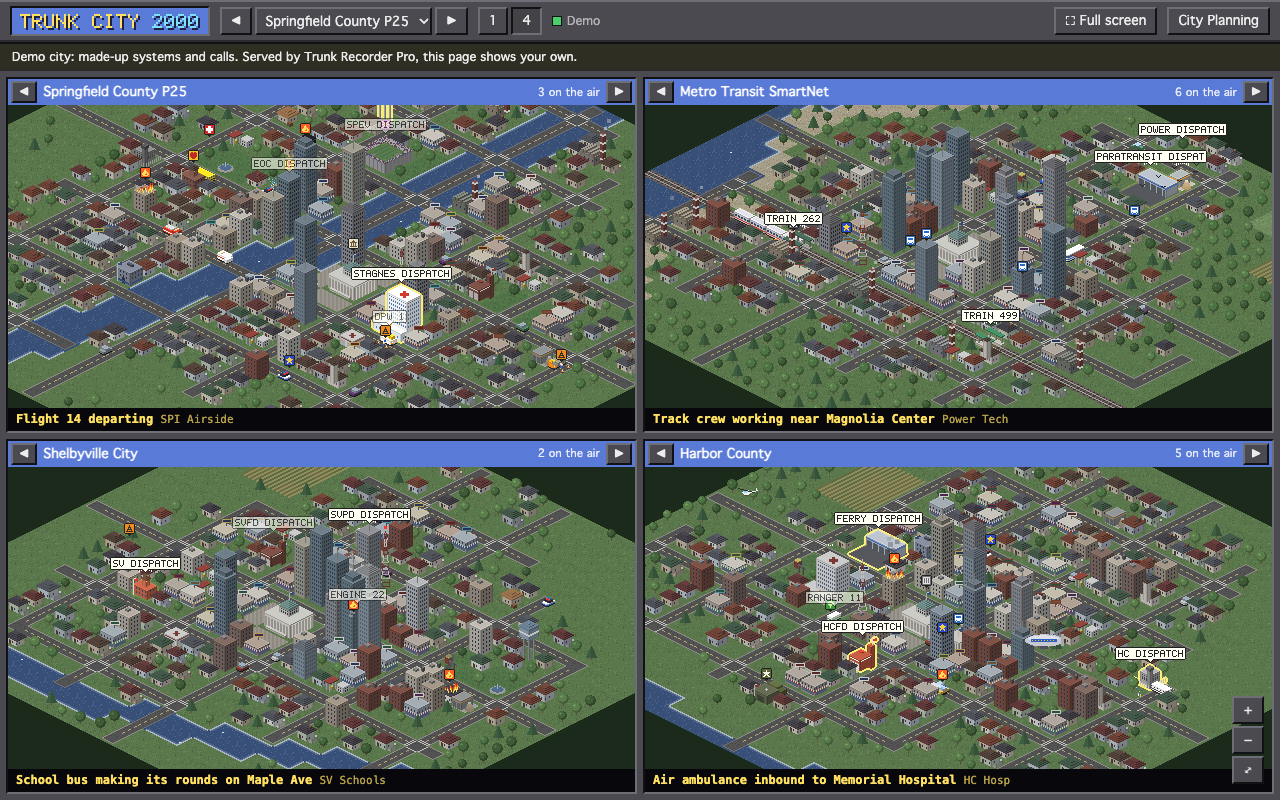
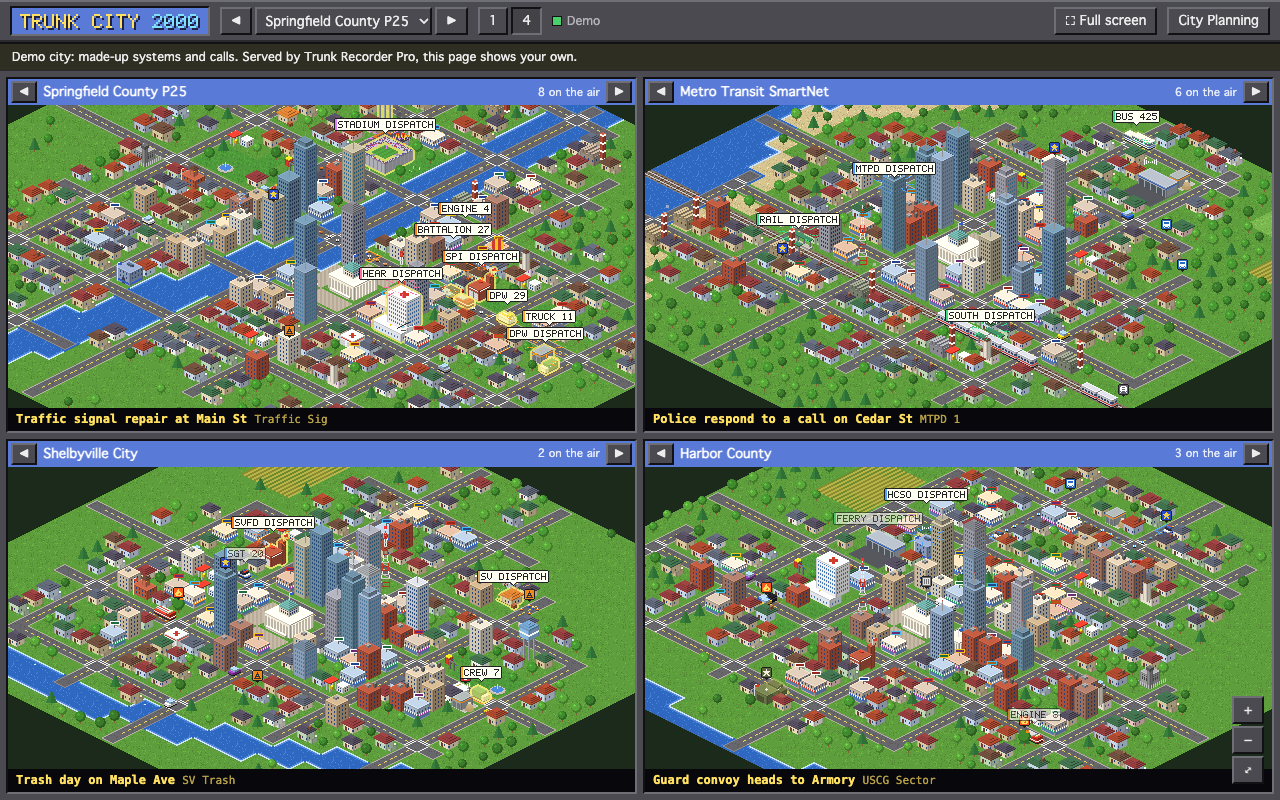
Full color, with the radio's activity standing out by its own light
The faded city is off by default (and turned off once for 0.2 users).
Instead each service has a color, and its radios wear it: a ring on the
ground under each radio's vehicle (faint when heard lately, pulsing
while it talks), a sparkle trail while talking, marching dots along its
route to an incident, a stripe on its bubble. Talking dispatch buildings
get turning rays and rising rings; a talking radio behind a building
shows through. Light traffic is at most four cars, no buses. 0.3.0.

diff --git a/interface/js/city.js b/interface/js/city.js
@@ -10,7 +10,7 @@
 // a tower rather than over it.
 
 import * as S from "./sprites.js";
-import { css, Pix, bitmapText, textWidth, sprite } from "./pixel.js";
+import { css, mix, Pix, bitmapText, textWidth, sprite } from "./pixel.js";
 import { G, roadPath, nearestRoad } from "./citygen.js";
 import { DIRS, NW, NE, SE, SW, toTile } from "./iso.js";
 import { chaos } from "./rng.js";
@@ -34,6 +34,29 @@ const UNIT_ACTS = new Set(["respond", "ambulance", "chase", "bus", "route", "con
 // often in 10, is a dispatcher, whatever it's called: its building speaks for it.
 const DISPATCH_TGS = 3;
 const DISPATCH_KEYS = 12;
+// Each service's color: its radios' ground rings, trails, routes and rays.
+export const TYPE_COLOR = {
+  fire: 0xff7a1a,
+  ems: 0xff4d6d,
+  police: 0x4da3ff,
+  hospital: 0xff6b9a,
+  emergency: 0xffd23f,
+  transit: 0x3ddc84,
+  schools: 0xffd400,
+  airport: 0x7fd4ff,
+  utilities: 0x34d0ff,
+  publicworks: 0xffa62b,
+  animal: 0xd8a868,
+  parks: 0x7ee05a,
+  corrections: 0xc0c0c8,
+  security: 0x9fa8ff,
+  military: 0xa8c860,
+  federal: 0x7f98ff,
+  government: 0xf6e7a8,
+  events: 0xe07cff,
+  other: 0xc58cff,
+};
+const colorOf = (tk) => TYPE_COLOR[tk?.ev?.type] ?? 0xffffff;
 const MAX_PARTICLES = 700;
 
 /** World pixel of a point on the map (fi, fj in tiles). */
@@ -154,6 +177,12 @@ class Mover {
     const [x, y] = P(this.fi, this.fj);
     const X = Math.round(x - s.ax),
       Y = Math.round(y - s.ay);
+    if (this.talker) {
+      // A ring on the ground in its service's color: faint while it's been
+      // heard lately, bright and pulsing while it talks.
+      const r = ring(colorOf(this.talker), this.talker.talking && Math.floor(time * 4) % 2 === 0);
+      ctx.drawImage(r.img, Math.round(x) - r.ax, Math.round(y) - r.ay);
+    }
     if (this.talker?.talking) glow(ctx, s, X, Y, time);
     ctx.drawImage(this.ambient && this.view.dim ? dimmed(s) : s.img, X, Y);
   }
@@ -161,7 +190,10 @@ class Mover {
   box(time) {
     const s = this.sprite(time);
     const [x, y] = P(this.fi, this.fj);
-    return [x - s.ax - 2, y - s.ay - 2, s.w + 4, s.h + 4];
+    // The sprite and its glow, and the ring under it.
+    const x0 = Math.min(x - s.ax - 2, x - 12),
+      y0 = y - s.ay - 2;
+    return [x0, y0, Math.max(x - s.ax + s.w + 2, x + 12) - x0, Math.max(y - s.ay + s.h + 2, y + 7) - y0];
   }
 }
 
@@ -505,7 +537,7 @@ export class CityView {
     const { city } = this;
     const roads = city.roadTiles.filter((k) => !city.bridge[k]);
     if (!roads.length) return;
-    const want = { none: 0, light: Math.max(2, Math.min(8, Math.round(roads.length / 45))), normal: Math.max(4, Math.min(36, Math.round(roads.length / 11))) }[this.traffic] ?? 0;
+    const want = { none: 0, light: Math.max(1, Math.min(4, Math.round(roads.length / 70))), normal: Math.max(4, Math.min(36, Math.round(roads.length / 11))) }[this.traffic] ?? 0;
     const cars = this.ents.filter((e) => e.ambient && e instanceof Mover && e.kind !== "bus");
     for (const m of cars.slice(want)) m.alive = false;
     for (let n = cars.length; n < want; n++) {
@@ -1056,7 +1088,9 @@ export class CityView {
     }
     const act = inc?.scen.act;
     if (inc && inc.target?.road >= 0 && !["bus", "route", "patrol", "train", "plane", "tower"].includes(act)) {
+      m.enRoute = true;
       m.go(inc.target.road, () => {
+        m.enRoute = false;
         m.onScene = true;
         if (act === "ambulance") {
           // To the nearest hospital, and wait there.
@@ -1067,8 +1101,11 @@ export class CityView {
           if (h) m.go(this.door(h));
         }
       });
-    } else if (["bus", "route", "patrol"].includes(act)) this.route(m, 3, () => this.park(m, home));
-    else this.park(m, home);
+    } else {
+      m.enRoute = false;
+      if (["bus", "route", "patrol"].includes(act)) this.route(m, 3, () => this.park(m, home));
+      else this.park(m, home);
+    }
   }
 
   /** `m` waits on a street near `home`. */
@@ -1082,6 +1119,7 @@ export class CityView {
   retire(t) {
     t.leaving = true;
     const m = t.mover;
+    if (m) m.enRoute = false;
     if (m?.alive)
       m.go(m.home, () => {
         m.alive = false;
@@ -1420,6 +1458,20 @@ export class CityView {
       if (m?.alive) m.lights = S.FLASHING.has(m.kind) && (tk.talking || !!(tk.inc && !tk.inc.over && tk.inc.live));
       if (!tk.talking && !tk.leaving && t - tk.heard > RECENT_S) this.retire(tk);
       if (tk.train && !tk.train.alive) tk.train = null;
+      if (!tk.talking) continue;
+      const c = colorOf(tk);
+      // A trail of sparkles behind a radio that's talking (fewer while it waits).
+      const N = this.city.N;
+      if (m?.alive && m.fi > 0.15 && m.fj > 0.15 && m.fi < N - 0.15 && m.fj < N - 0.15 && chaos() < dt * (m.arrived ? 6 : 22)) {
+        const [x, y] = P(m.fi, m.fj);
+        this.puff(x + chaos.range(-3, 3), y - chaos.range(1, 5), { color: chaos.chance(0.6) ? c : 0xffffff, size: 1, vx: chaos.range(-3, 3), vy: chaos.range(-8, -3), life: chaos.range(0.6, 1.1), grow: 0 });
+      }
+      // Rings from a building whose radio is talking.
+      const o = tk.building;
+      if (o?.spr && (tk._ring ?? 0) < t) {
+        tk._ring = t + 0.8;
+        this.rings.push({ x: o.wx + o.spr.ax, y: o.wy + o.spr.top, r: 2, max: 24, speed: 16, color: css(c) });
+      }
     }
 
     // Chimneys (fewer puffs when the city's quiet).
@@ -1625,6 +1677,50 @@ export class CityView {
           },
         });
       }
+    // The way radios are going to an incident: dots along the road, marching.
+    for (const tk of this.talkers.values()) {
+      const m = tk.mover;
+      if (!m?.alive || !m.enRoute || m.arrived) continue;
+      const c = css(colorOf(tk));
+      const ahead = m.path.slice(m.seg + 1);
+      const march = Math.floor(t * 6);
+      ahead.forEach((k, n) => {
+        const i = Math.floor(k / N) + 0.5,
+          j = (k % N) + 0.5;
+        const next = ahead[n + 1];
+        // Two dots a tile, toward the next one; a dark edge under each, to stand out on any ground.
+        const dots = [W(i, j)];
+        if (next != null) dots.push(W((i + Math.floor(next / N) + 0.5) / 2, (j + (next % N) + 0.5) / 2));
+        const [x, y] = dots[0];
+        ground.push({
+          depth: i + j - 0.4,
+          fi: i,
+          fj: j,
+          draw: (g) => {
+            dots.forEach(([dx, dy], d) => {
+              const on = (march - (n * 2 + d)) % 4 === 0 || (march - (n * 2 + d)) % 4 === 1;
+              g.globalAlpha = on ? 1 : 0.55;
+              g.fillStyle = "#202020";
+              g.fillRect(Math.round(dx) - 1, Math.round(dy), 3, 2);
+              g.fillStyle = on ? "#ffffff" : c;
+              g.fillRect(Math.round(dx) - 1, Math.round(dy) - 1, 3, 2);
+              if (on) {
+                g.fillStyle = c;
+                g.fillRect(Math.round(dx), Math.round(dy) - 1, 1, 2);
+              }
+            });
+            if (n === ahead.length - 1) {
+              // Where it's going: a ring.
+              g.globalAlpha = 1;
+              const r = ring(colorOf(tk), true);
+              g.drawImage(r.img, Math.round(x) - r.ax, Math.round(y) - r.ay);
+            }
+            g.globalAlpha = 1;
+          },
+          box: () => [x - 16, y - 8, 32, 16],
+        });
+      });
+    }
     // Buildings whose radios are talking: lit up, at full strength.
     for (const tk of this.talkers.values()) {
       const o = tk.building;
@@ -1658,6 +1754,30 @@ export class CityView {
     }
     list.sort((a, b) => a.depth - b.depth || (a.order ?? -1) - (b.order ?? -1));
     for (const e of list) e.draw(ctx, t);
+    // A radio talking behind a building shows through it, as its glow.
+    for (const tk of this.talkers.values()) {
+      const m = tk.mover;
+      if (!m?.alive || !tk.talking || !list.includes(m)) continue;
+      const [bx, by, bw, bh] = m.box(t);
+      const i0 = Math.floor(m.fi),
+        j0 = Math.floor(m.fj);
+      let hidden = false;
+      for (let a = 0; a <= 6 && !hidden; a++)
+        for (let b = 0; b <= 6 && !hidden; b++) {
+          const i = i0 + a,
+            j = j0 + b;
+          if (i >= N || j >= N) continue;
+          const id = city.obj[i * N + j];
+          const o = id >= 0 && city.objects[id];
+          if (o && o.depth > m.depth && o.art[0] !== "tree" && !(o.wx > bx + bw || o.wx + o.spr.w < bx || o.wy > by + bh || o.wy + o.spr.h < by)) hidden = true;
+        }
+      if (!hidden) continue;
+      const sp = m.sprite(t);
+      const [x, y] = P(m.fi, m.fj);
+      ctx.globalAlpha = 0.7;
+      glow(ctx, sp, Math.round(x - sp.ax), Math.round(y - sp.ay), t, true);
+      ctx.globalAlpha = 1;
+    }
 
     // Smoke, water, sparks.
     for (const p of this.particles) {
@@ -1711,6 +1831,18 @@ export class CityView {
         ctx.fillRect(x + 2 * r, y - r, 1, 2 * r);
       }
     }
+    // Rays turning over a building whose radio is talking.
+    for (const tk of this.talkers.values()) {
+      const o = tk.building;
+      if (!o?.spr || !tk.talking) continue;
+      const cx = o.wx + o.spr.ax,
+        cy = o.wy + o.spr.top + 2;
+      ctx.fillStyle = css(colorOf(tk));
+      for (let k = 0; k < 8; k++) {
+        const a = (k * Math.PI) / 4 + t * 1.2;
+        for (let r = 9; r <= 14; r++) ctx.fillRect(Math.round(cx + Math.cos(a) * r * 1.4), Math.round(cy + Math.sin(a) * r * 0.75), 1, 1);
+      }
+    }
     // Incident signs.
     this.icons = [];
     for (const inc of this.incidents) {
@@ -1737,7 +1869,7 @@ export class CityView {
       if (!text) continue;
       const at = this.talkerAt(tk);
       if (!at || !inView(at.x, at.y, 40)) continue;
-      const b = bubble(text);
+      const b = bubble(text, colorOf(tk));
       let x = Math.round(at.x - b.ax),
         y = Math.round(at.y - 3 - b.ay);
       // Out of each other's way: step up.
@@ -1930,7 +2062,7 @@ export function talkerKind(ev, name = "") {
 }
 
 /** A glow around sprite `s` drawn at (x, y): pulsing, for a radio that's talking. */
-function glow(ctx, s, x, y, time) {
+function glow(ctx, s, x, y, time, keepAlpha = false) {
   if (!s.halo) {
     const c = document.createElement("canvas");
     c.width = s.w + 4;
@@ -1942,9 +2074,10 @@ function glow(ctx, s, x, y, time) {
     g.fillRect(0, 0, c.width, c.height);
     s.halo = c;
   }
-  ctx.globalAlpha = 0.55 + 0.45 * Math.sin(time * 7);
+  const was = ctx.globalAlpha;
+  ctx.globalAlpha = (keepAlpha ? was : 1) * (0.55 + 0.45 * Math.sin(time * 7));
   ctx.drawImage(s.halo, x - 2, y - 2);
-  ctx.globalAlpha = 1;
+  ctx.globalAlpha = was;
 }
 
 /** A canvas, quieter: less color and light. */
@@ -1970,13 +2103,35 @@ function dimmed(s) {
   return (s.dim ??= dimCopy(s.img, s.w, s.h));
 }
 
+/** A diamond ring on the ground, a tile wide, in `color`: brighter when `on`. Anchored at its middle. */
+const rings = new Map();
+function ring(color, on) {
+  const key = `${color}|${on}`;
+  let r = rings.get(key);
+  if (r) return r;
+  const p = new Pix(25, 13);
+  const c = on ? color : mix(color, 0x000000, 0.25);
+  for (let dx = -11; dx <= 11; dx++) {
+    const dy = Math.round((11 - Math.abs(dx)) / 2);
+    p.set(12 + dx, 6 - dy, c, on ? 255 : 150);
+    p.set(12 + dx, 6 + dy, c, on ? 255 : 150);
+    if (on) {
+      p.set(12 + dx, 6 - dy + 1, c, 90);
+      p.set(12 + dx, 6 + dy - 1, c, 90);
+    }
+  }
+  rings.set(key, (r = sprite(p, 12, 6)));
+  return r;
+}
+
 /** A speech bubble with `text` in it (the pixel font, capitals), its anchor the tip of its tail. */
 const bubbles = new Map();
-function bubble(text) {
+function bubble(text, color = 0xffffff) {
   text = text.toUpperCase().slice(0, 18);
-  let b = bubbles.get(text);
+  const key = `${text}|${color}`;
+  let b = bubbles.get(key);
   if (b) return b;
-  const w = textWidth(text) + 6,
+  const w = textWidth(text) + 7,
     h = 13;
   const p = new Pix(w, h + 3);
   p.rect(1, 0, w - 2, h, 0x202020);
@@ -1990,9 +2145,10 @@ function bubble(text) {
   p.set(mid - 2, h, 0x202020), p.set(mid + 2, h, 0x202020);
   p.set(mid - 1, h + 1, 0x202020), p.set(mid + 1, h + 1, 0x202020);
   p.set(mid, h + 2, 0x202020);
-  bitmapText(p, text, 3, 3, 0x202020);
+  p.rect(1, 1, 2, h - 2, color); // its service's color, down the side
+  bitmapText(p, text, 4, 3, 0x202020);
   if (bubbles.size > 500) bubbles.clear();
-  bubbles.set(text, (b = sprite(p, mid, h + 2)));
+  bubbles.set(key, (b = sprite(p, mid, h + 2)));
   return b;
 }
 

diff --git a/interface/js/panel.js b/interface/js/panel.js
@@ -46,7 +46,7 @@ export function openSettings({ getSystems, settings, onChange, onClose }) {
             <label class="check"><input type="checkbox" id="opt-whimsy" ${settings.whimsy ? "checked" : ""}> Unexplained phenomena (saucers, balloons, the occasional Bigfoot)</label>
             <label class="check"><input type="checkbox" id="opt-unknown" ${settings.unknown ? "checked" : ""}> Show calls on talkgroups that aren't in the talkgroup file</label>
             <label class="check">Background traffic <select id="opt-traffic">${[["none", "None"], ["light", "Light"], ["normal", "Busy"]].map(([v, l]) => `<option value="${v}" ${settings.traffic === v ? "selected" : ""}>${l}</option>`).join("")}</select></label>
-            <label class="check"><input type="checkbox" id="opt-dim" ${settings.dim ? "checked" : ""}> Quiet the city, so what's on the radio stands out</label>
+            <label class="check"><input type="checkbox" id="opt-dim" ${settings.dim ? "checked" : ""}> Fade the city, so what's on the radio stands out even more</label>
             <label class="check"><input type="checkbox" id="opt-ids" ${settings.unitIds ? "checked" : ""}> Label radios that have no name with their ID</label>
             <p class="hint">Talkgroups are sorted by their Tag, Category, Alpha Tag and Description, as RadioReference has them. Change any of them below; your choices are kept in this browser.</p>
           </section>

diff --git a/interface/js/settings.js b/interface/js/settings.js
@@ -17,8 +17,8 @@ const DEFAULTS = {
   unknown: false,
   /** Background traffic: "none", "light" or "normal". Light, so what the radio does stands out. */
   traffic: "light",
-  /** The city a little quieter (less color and light), and what's on the radio at full strength. */
-  dim: true,
+  /** The city faded (less color and light), and what's on the radio at full strength. */
+  dim: false,
   /** Radios with no name labeled by their ID. */
   unitIds: false,
 };
@@ -26,7 +26,9 @@ const DEFAULTS = {
 export function load() {
   try {
     const s = JSON.parse(localStorage.getItem(KEY) ?? "{}");
-    return { ...structuredClone(DEFAULTS), ...s, systems: s.systems ?? {} };
+    // 0.2 faded the city by default and saved that; it's off now, once.
+    if ((s.v ?? 1) < 2) delete s.dim;
+    return { ...structuredClone(DEFAULTS), ...s, systems: s.systems ?? {}, v: 2 };
   } catch {
     return structuredClone(DEFAULTS);
   }

diff --git a/README.md b/README.md
@@ -50,9 +50,14 @@ It asks for listen access only: it can see and play what the recorder shows, and
   while. A tactical talkgroup joins whatever its dispatch started. A sign floats over each one,
   blinking while it's on the air. Its radios are its responders; on a system that doesn't say who's
   talking, stand-ins go instead.
-- **What's on the radio stands out.** Background traffic is light and the city a little quieter
-  (less color and light), so the radios, the incidents and their fire and smoke are what you
-  see. Both can be changed in City Planning.
+- **What's on the radio stands out,** in each service's color (blue police, orange fire, pink
+  EMS, green transit, amber public works…). Every radio's vehicle has a ring on the ground under
+  it, faint while it's been heard lately and pulsing while it talks, so it's never mistaken for
+  traffic. A radio that's talking leaves a trail of sparkles, and shows through any building it's
+  behind. One on its way to an incident shows its route: dots marching along the streets to a
+  ring where it's going. A dispatcher's building glows, with rays turning over it and radio rings
+  rising from its roof. Bubbles carry the service's color down their side. Background traffic is
+  light: a few cars, no buses or trains but the radio's.
 - **The news.** The ticker at the bottom has the latest headline; **More** opens the paper.
 - **Four at once.** **4** shows up to four cities side by side; the arrows on each one change which
   city it shows. Double-click a city to open it on its own.
@@ -115,8 +120,9 @@ Data, test and spare talkgroups start off.
   filter by kind; **All on**, **All off** and **Back to automatic** act on the talkgroups shown, and
   *Group … is …* sets a whole group at once (a transit agency's "Rail Maintenance" group, say);
 - choose whether calls on talkgroups that aren't in the file count;
-- set the background traffic (none, light or busy), whether the city is quieted so the radio
-  stands out, and whether radios with no name are labeled with their ID.
+- set the background traffic (none, light or busy), whether the city is faded so the radio
+  stands out even more (off unless you turn it on), and whether radios with no name are labeled
+  with their ID.
 
 Your choices are kept in this browser, not in the recorder. Each browser, and each person, has
 their own.

diff --git a/CHANGELOG.md b/CHANGELOG.md
@@ -1,5 +1,18 @@
 # Changelog
 
+## [0.3.0]
+
+- The city is in full color again: what's on the radio stands out by its own light instead of the
+  rest being faded (fading is still in City Planning, off unless turned on; it's turned off once
+  for anyone who had it from 0.2).
+- Each service has its color (police blue, fire orange, EMS pink, transit green…), and its radios
+  show it: a ring on the ground under every radio's vehicle (faint when heard lately, pulsing
+  while it talks), a trail of sparkles while it talks, dots marching along its route to an
+  incident, and a stripe down its name bubble.
+- A dispatcher's building, when it talks, glows with rays turning over it and radio rings rising.
+- A radio talking behind a building shows through it.
+- Fewer background cars (at most four, on light), and no background buses.
+
 ## [0.2.1]
 
 - Vehicles move smoothly along the roads: each step is the 2-across, 1-down of isometric pixel art,
